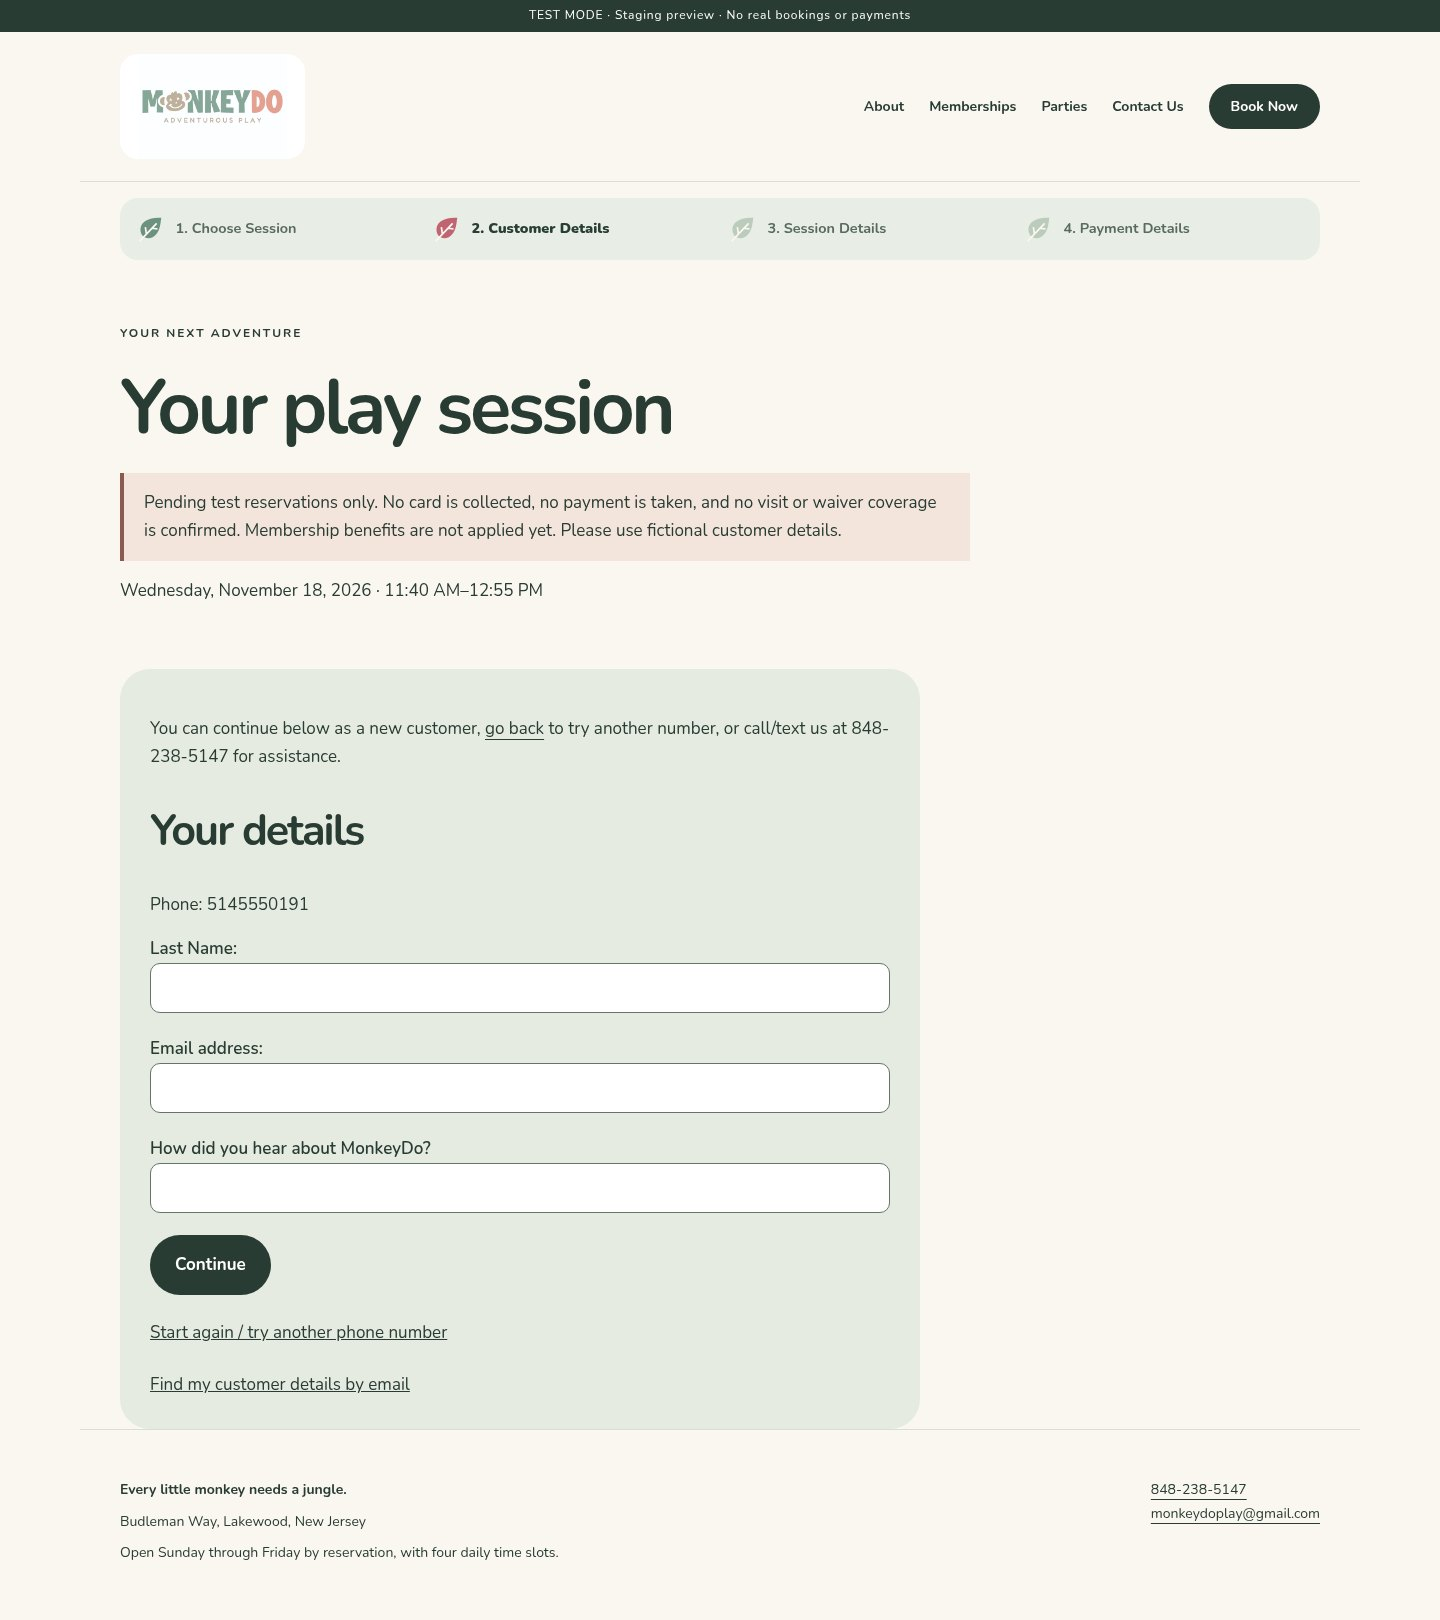
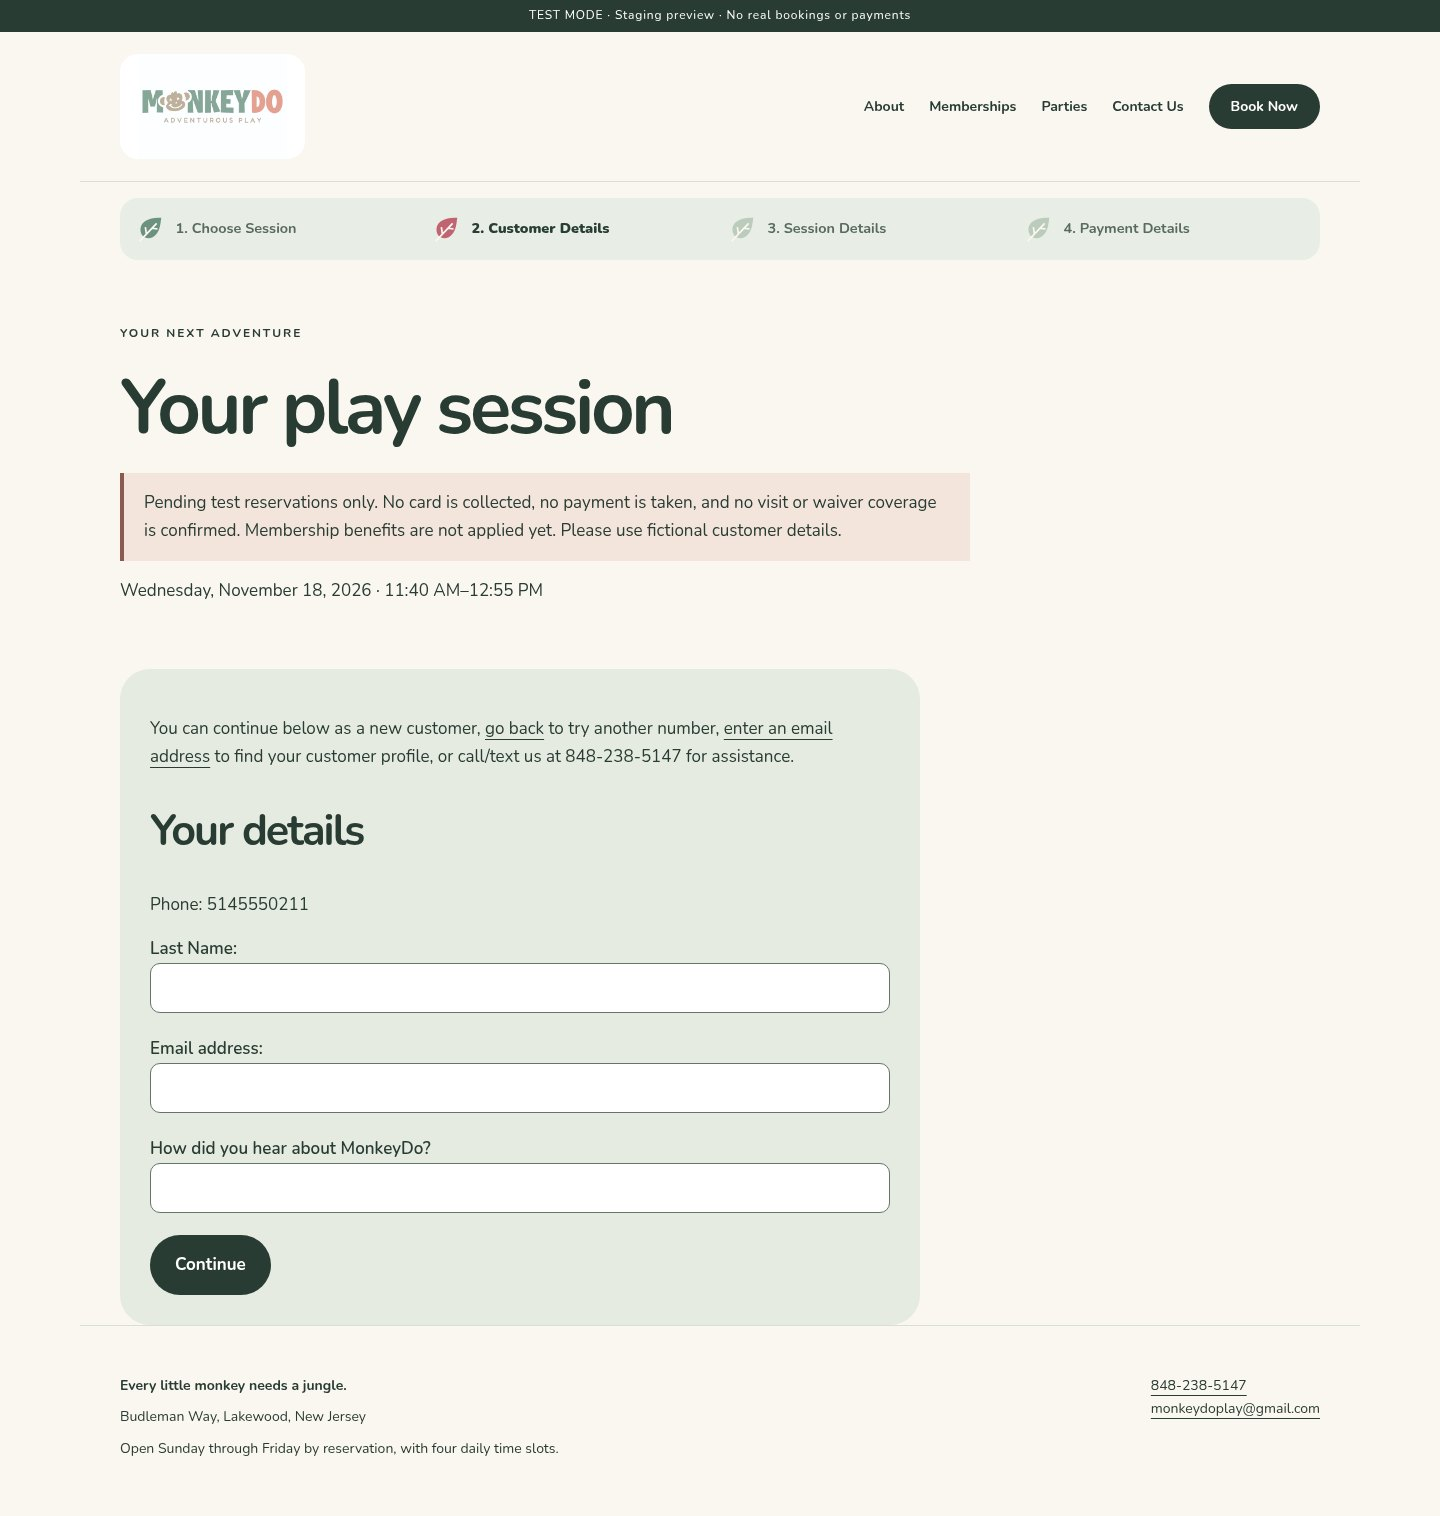
Consolidate new-customer phone and email recovery links

diff --git a/templates/core/customer_booking.html b/templates/core/customer_booking.html
@@ -8,7 +8,7 @@
 {% if flow.stage == 'name' %}<p>Looks like you've been to Monkey Do in the past. We found a customer profile with the phone number you entered — {{ flow.phone }}. For verification, please enter your last name.</p>{% endif %}
 {% if flow.stage == 'name_confirm' or flow.stage == 'email_confirm' %}<h2>Is this your family?</h2><p>We found a customer “{{ flow.candidate_name }}” {% if flow.stage == 'email_confirm' %}matching the name and email you entered{% else %}for phone {{ flow.phone }}{% endif %}. Is this you?</p>{% endif %}
 {% if flow.stage == 'retry_phone' %}<h2>Let's try another number</h2><p>No customer was found with {{ flow.phone }}. Did you use a different phone number for a previous booking?</p>{% endif %}
-{% if flow.lookup_note %}<p role="status">You can continue below as a new customer, <a href="{% url 'customer_booking' %}?restart=1">go back</a> to try another number, or call/text us at 848-238-5147 for assistance.</p>{% endif %}
+{% if flow.stage == 'contact' or flow.stage == 'retry_phone' %}<p role="status">You can continue below as a new customer, <a href="{% url 'customer_booking' %}?restart=1">go back</a> to try another number, <a href="{% url 'customer_email_recovery' %}">enter an email address</a> to find your customer profile, or call/text us at 848-238-5147 for assistance.</p>{% endif %}
 {% if flow.new_contact_ready and flow.stage == 'details' %}<p role="status">Success! Your details are ready. Please proceed with your booking.</p>{% endif %}
 {% if flow.stage == 'email_lookup' %}{% if flow.recovery_notice %}<p role="status">{{ flow.recovery_notice }}</p>{% endif %}<h2>Find your customer details</h2><p>Enter the email address and last name associated with your customer profile.</p>{% endif %}
 {% if flow.stage == 'previous' %}<p>Looks like you've been to Monkey Do in the past. We found a customer record with your number, along with an updated number of {{ flow.current_phone }}. Please confirm if this is your phone number.</p>{% endif %}
@@ -23,7 +23,9 @@
 <p>Amounts use the staging tax rate. This estimate does not mean money was received.</p>{% endif %}
 <form method="post"{% if flow.stage == 'details' %} data-public-estimate="{% url 'customer_live_estimate' %}" class="public-details-layout"{% endif %}>{% csrf_token %}<div>{% include 'core/partials/form_fields.html' %}</div>{% if flow.stage == 'details' %}<aside class="live-booking-estimate" aria-label="Live price estimate"><h3>Your play estimate</h3><div data-public-estimate-content>{% include 'core/partials/live_quote.html' with data=live_quote %}</div><p class="caption" role="status" data-public-estimate-status>Updates as you change your selections.</p></aside>{% endif %}<button class="button">{% if flow.stage == 'review' %}Save pending test reservation{% else %}Continue{% endif %}</button>{% if flow.stage == 'retry_phone' %} <button class="text-button" name="continue_new" value="1">Continue as a new customer</button>{% endif %}</form>
 {% if flow.stage == 'review' %}<form method="post" action="{% url 'customer_booking_revise' %}">{% csrf_token %}<input type="hidden" name="flow_key" value="{{ flow.key }}"><button class="text-button">Change your session details or your payment method</button></form>{% endif %}
+{% if flow.stage != 'contact' and flow.stage != 'retry_phone' %}
 {% if session %}<form method="post" action="{% url 'customer_booking_start' session.pk %}">{% csrf_token %}<button class="text-button">Start again / try another phone number</button></form>{% endif %}
-{% if flow.stage == 'contact' or flow.stage == 'retry_phone' or flow.stage == 'name' %}<form method="post" action="{% url 'customer_email_recovery' %}">{% csrf_token %}<button class="text-button">Find my customer details by email</button></form>{% endif %}
+{% if flow.stage == 'name' %}<form method="post" action="{% url 'customer_email_recovery' %}">{% csrf_token %}<button class="text-button">Find my customer details by email</button></form>{% endif %}
+{% endif %}
 </section>{% if flow.stage == 'details' %}{% include 'core/partials/booking_play_info.html' %}{% endif %}</div>{% endif %}
 {% endblock %}

diff --git a/core/customers.py b/core/customers.py
@@ -231,4 +231,4 @@ def historical_email_customers(email, customer_id=None):
 
 
 def public_duplicate_email_message(email):
-    return f"The email address you entered {email} already exists for another customer. Please enter another email address or if {email} is your email address, perhaps you entered a different phone number now than the one associated with a previous booking using this email address. Please go back to the booking page and enter a phone number and name you may have entered in the past for this email address. If you need further help, we’re happy to help. We can remove this email address from the other customer profile. Please contact us at 848-238-5147. You can also choose Find my customer details by email below."
+    return f"The email address you entered {email} already exists for another customer. Please enter another email address or if {email} is your email address, perhaps you entered a different phone number now than the one associated with a previous booking using this email address. Please go back to the booking page and enter a phone number and name you may have entered in the past for this email address. If you need further help, we’re happy to help. We can remove this email address from the other customer profile. Please contact us at 848-238-5147."

diff --git a/core/public_booking_views.py b/core/public_booking_views.py
@@ -521,7 +521,7 @@ def revise(request):
 
 
 @enabled
-@require_POST
+@require_http_methods(["GET", "POST"])
 def recover_by_email(request):
     try:
         flow = current(request)

diff --git a/docs/design-review/owner-edits-batch-3/README.md b/docs/design-review/owner-edits-batch-3/README.md
@@ -37,7 +37,7 @@ remain welcome.
 | 20 | Custom session — explicit reopening controls | [Desktop JPG](20-custom-session-reopen-controls-desktop.jpg) | [Phone JPG](20-custom-session-reopen-controls-phone.jpg) |
 | 21 | Cancel booking — reopening choice | [Desktop JPG](21-cancellation-reopen-choice-desktop.jpg) | [Phone JPG](21-cancellation-reopen-choice-phone.jpg) |
 | 22 | Public booking — Canadian/ten-digit phone wording | [Desktop JPG](22-phone-validation-wording-desktop.jpg) | [Phone JPG](22-phone-validation-wording-phone.jpg) |
-| 23 | Public booking — new-customer continuation and back link | [Desktop JPG](23-new-customer-continuation-desktop.jpg) | [Phone JPG](23-new-customer-continuation-phone.jpg) |
+| 23 | Public booking — inline phone/email continuation choices | [Desktop JPG](23-new-customer-continuation-desktop.jpg) | [Phone JPG](23-new-customer-continuation-phone.jpg) |
 | 24 | Public booking — details ready, not saved early | [Desktop JPG](24-new-customer-details-ready-desktop.jpg) | [Phone JPG](24-new-customer-details-ready-phone.jpg) |
 | 25 | Public booking — email recovery | [Desktop JPG](25-email-recovery-desktop.jpg) | [Phone JPG](25-email-recovery-phone.jpg) |
 | 26 | Public booking — matching family confirmation | [Desktop JPG](26-email-family-confirmation-desktop.jpg) | [Phone JPG](26-email-family-confirmation-phone.jpg) |
@@ -66,3 +66,5 @@ provider delivery, hosting changes or deployments were performed. Confirmed
 customer visits remain unfinished. [Implementation and migration notes](../../OWNER_EDITS_BATCH_3.md).
 
 Screen 16 now shows the actual new-session default: **Closed for reservation is unchecked**. Existing saved defaults retain their own open/closed setting.
+
+Screen 23 now consolidates phone retry and email recovery into the introductory paragraph, with both actions as inline links. Duplicate actions below the form were removed.

diff --git a/docs/CUSTOMER_BOOKING_DEVELOPMENT.md b/docs/CUSTOMER_BOOKING_DEVELOPMENT.md
@@ -80,3 +80,15 @@ Owner-designated public sessions on Motzei Shabbos now use the normal availabili
 The approved third batch adds exact-current-email plus tolerant surname recovery when no phone matches or phone-selected surname matching fails. Reveal the family only after matching both values, then confirm; retain the saved phone and never identify customers from historical-only email. New-customer continuation has the approved go back link. Success! Your details are ready precedes final atomic creation. Session Details has a read-only pretax live estimate and compact shared play information; final Payment Details retains full tax. No card, waiver, benefit or email delivery is enabled by these screens.
 
 Implementation and image-review record: [OWNER_EDITS_BATCH_3.md](OWNER_EDITS_BATCH_3.md).
+
+
+## Image-review follow-up — consolidated contact choices
+
+The new-customer continuation paragraph now uses the owner's exact expanded
+wording, with go back and enter an email address as inline hyperlinks. It replaces
+the duplicated phone/email actions beneath that contact form. Email recovery
+accepts navigation by GET as well as its existing POST entry; this only changes
+the in-progress browser flow and still requires matching email and surname before
+family disclosure. Final customer/booking persistence, saved phone and selected
+session are unchanged. Remove the obsolete duplicate-email hint that referred to
+the removed standalone button; the approved full error wording remains.

diff --git a/docs/MONKEYDO_REQUIREMENTS.md b/docs/MONKEYDO_REQUIREMENTS.md
@@ -290,8 +290,10 @@ search. Potential future active-membership/waiver customer filters remain deferr
 Ten-digit phone wording does not say US; continue accepting ten-digit Canadian
 numbers and a leading +1 through the existing normalization. New-customer
 continuation says You can continue below as a new customer, go back to try another
-number, or call/text us at 848-238-5147 for assistance, with go back linking to
-number entry for the same chosen session. After details are accepted, say
+number, enter an email address to find your customer profile, or call/text us at
+848-238-5147 for assistance. Both go back and enter an email address are inline
+hyperlinks, leading to phone entry and email/name recovery for the same chosen
+session. Remove the duplicate standalone actions beneath that form. After details are accepted, say
 Success! Your details are ready. Please proceed with your booking. Create the
 customer only with final successful booking submission, not at that earlier
 screen. Completion-bar text uses the active-leaf rose and retains alignment.

diff --git a/docs/OWNER_EDITS_BATCH_3.md b/docs/OWNER_EDITS_BATCH_3.md
@@ -110,3 +110,15 @@ it to illustrate the closed state. Screen 16 desktop/phone now shows the actual
 unchecked default. Existing closed defaults still render checked on editing;
 explicit user selections remain intact. Browser checks and direct form checks
 passed; no migration or deployment was performed.
+
+
+## Image-review follow-up — inline email recovery link
+
+Use exactly: You can continue below as a new customer, go back to try another
+number, enter an email address to find your customer profile, or call/text us at
+848-238-5147 for assistance. Go back and enter an email address are inline links;
+the duplicate actions below this form are removed. Both keep the selected
+session. Email lookup still requires email and surname, with no early customer
+creation or saved-phone change. The 27 affected PostgreSQL public-flow tests
+passed and Chromium checked both links at desktop/phone widths. Screen 23 and
+its image checksums were refreshed. Staging and PR/deployment remain unchanged.
